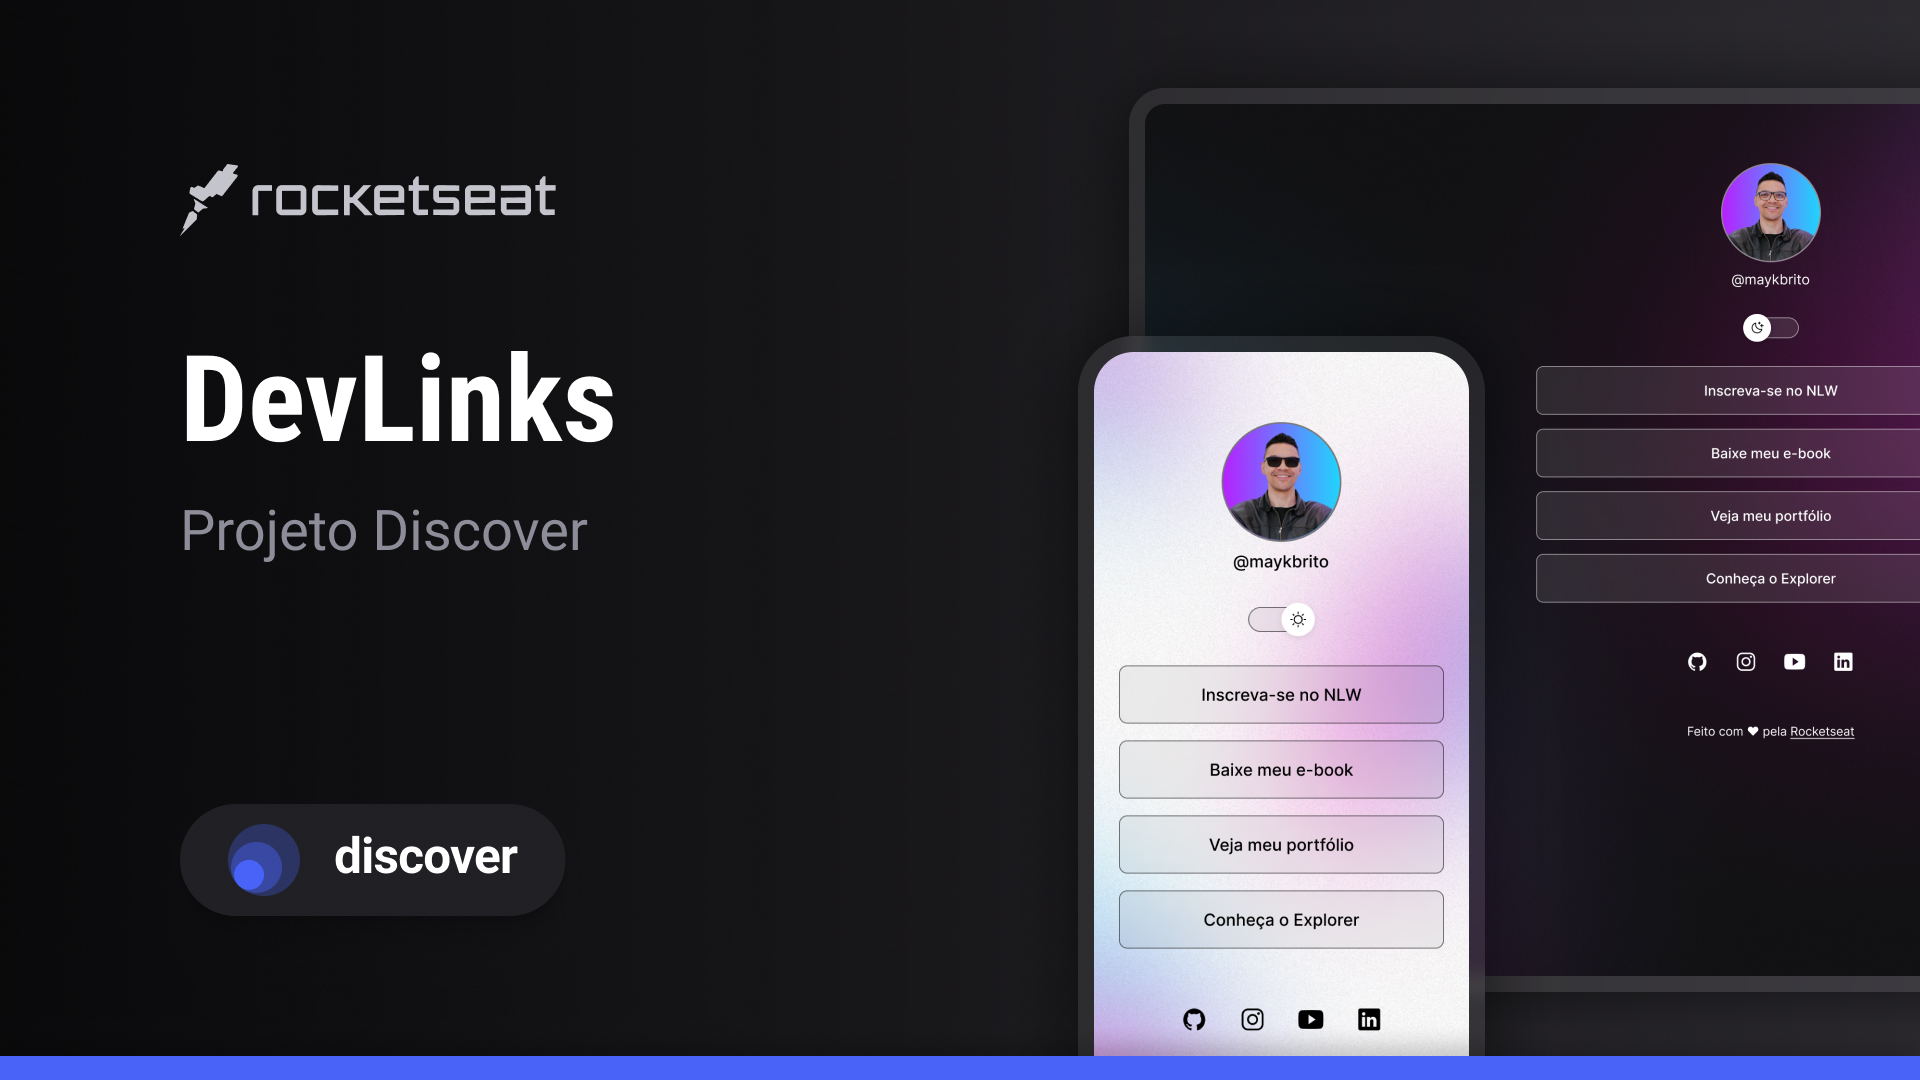
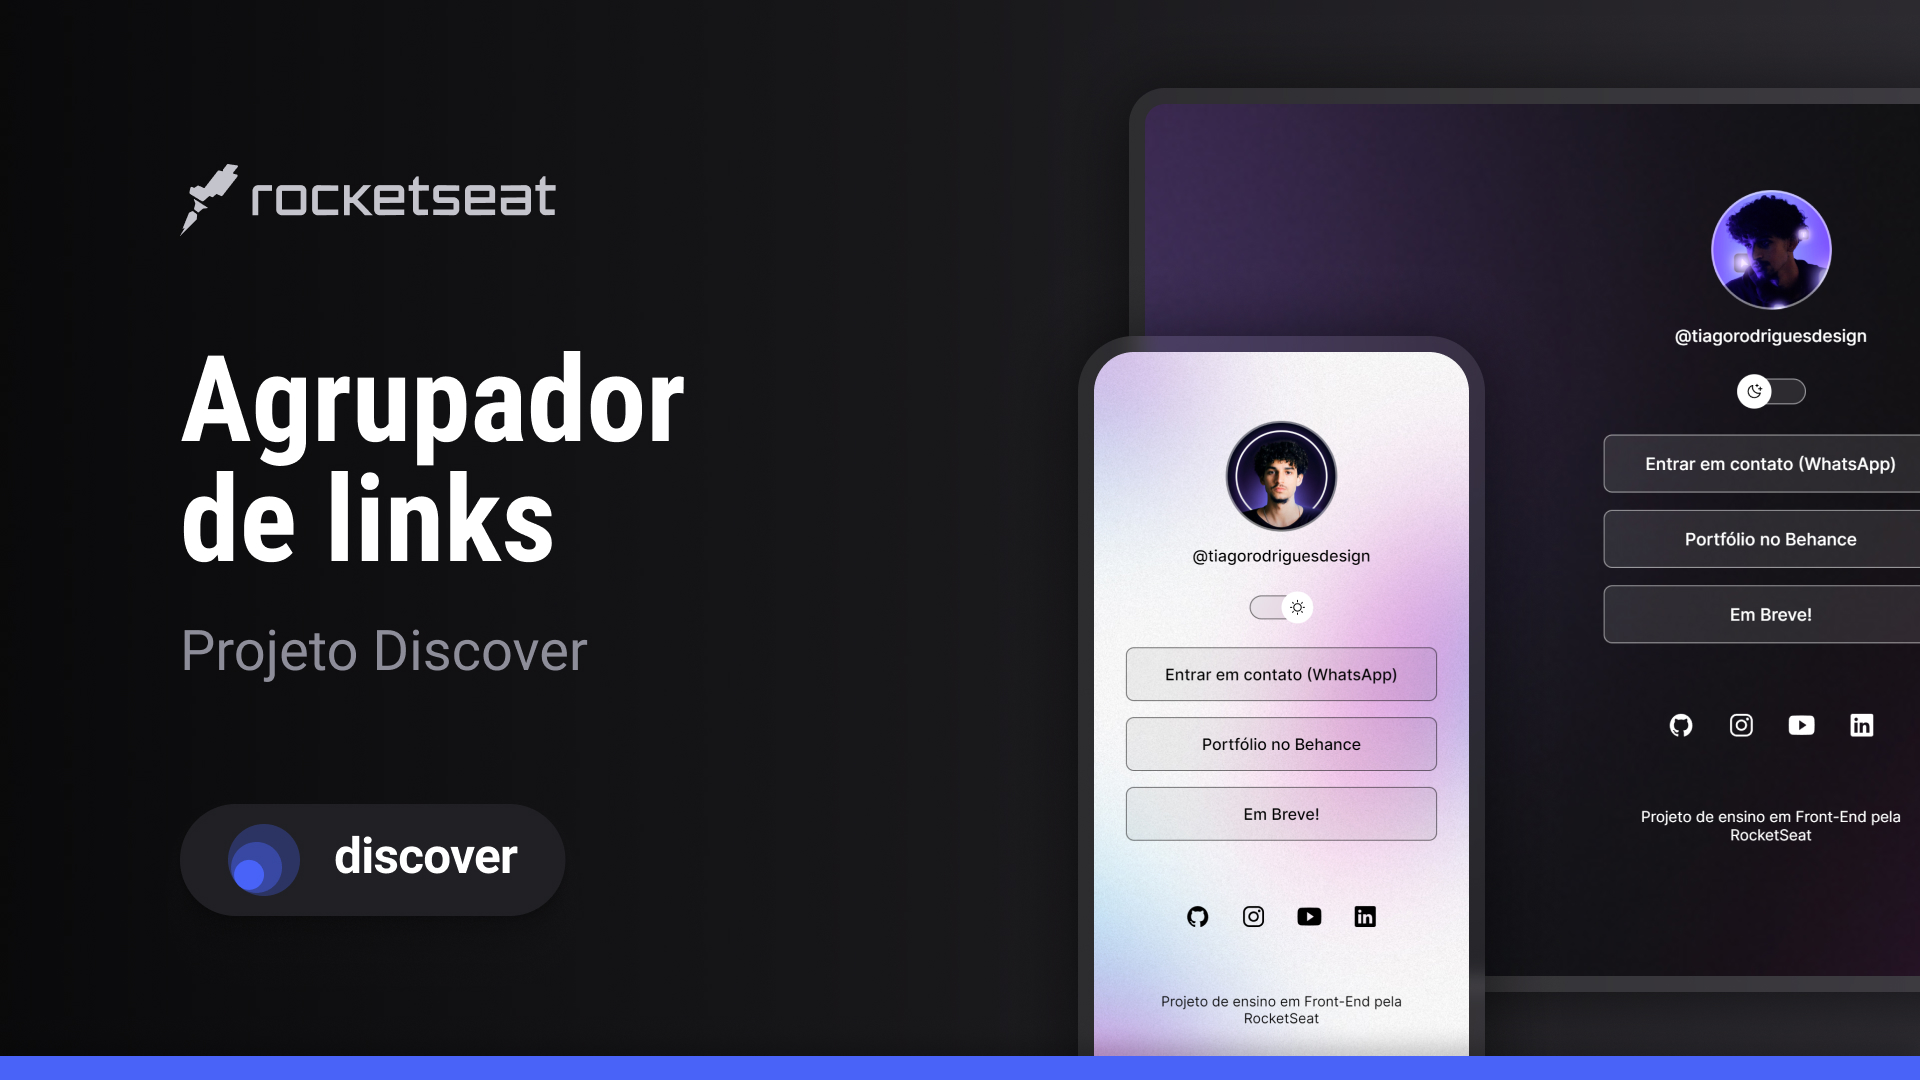
Adjust container width and README update

diff --git a/index.html b/index.html
@@ -22,41 +22,33 @@
     <div id="container">
       <div id="profile">
         <img 
-            src="./assets/avatar.png" 
-            alt="Tiago Rodrigues em um fundo roxo iluminado pela direita por uma luz roxa. Ícones de ferramentas do photoshop flutuando pela imagem"
-          />
-          <p>@tiagorodriguesdesign</p>
+          src="./assets/avatar.png" 
+          alt="Tiago Rodrigues em um fundo roxo iluminado pela direita por uma luz roxa. Ícones de ferramentas do photoshop flutuando pela imagem"
+        />
+        <p>@tiagorodriguesdesign</p>
       </div>
 
       <div id="switch" onclick="toggleMode()">
-        <button>
-
-        </button>
+        <button></button>
         <span></span>
       </div>
         
       <ul>
           <li>
-            <a href="#" target="_blank">
+            <a href="https://wa.me/5522997107894" target="_blank">
               Entrar em contato (WhatsApp)
             </a>
           </li>
 
           <li>
-            <a href="#" target="_blank">
-              Ver meu portfólio
+            <a href="https://www.behance.net/tiagodesignrodrigues" target="_blank">
+              Portfólio no Behance
             </a>
           </li>
 
           <li>
-            <a href="#" target="_blank">
-              Ver meu LinkedIn
-            </a>
-          </li>
-
-          <li>
-            <a href="#" target="_blank">
-              Conheça meu curso!
+            <a>
+              Em Breve!
             </a>
           </li>
       </ul>

diff --git a/style.css b/style.css
@@ -38,7 +38,8 @@ body *{ /* Seletor universal, aplica propriedades a todos elementos do body */
 }
 
 #container{
-    width: 360px;
+    width: 100%;
+    max-width: 588px;
     margin: 56px auto 0px;
     padding: 0 24px;
 

diff --git a/README.md b/README.md
@@ -1,8 +1,7 @@
-<h1 align="center"> DevLinks </h1>
+<h1 align="center"> Agrupador de Links </h1>
 
 <p align="center">
-Programa exclusivo e gratuito, promovido pela Rocketseat para ensino de tecnologias WEB. <br/>
-<a href="https://lp.rocketseat.com.br/devlinks/inscricao?utm_source=github&utm_medium=descricao&utm_campaign=capture-devlinks&utm_term=organic&utm_content=descricao-github-mayk-brito">Estude esse projeto em formato de vídeo clicando aqui.</a>
+Programa exclusivo e gratuito, desenvolvido como prática de estudo em tecnologias WEB. <br/>
 </p>
 
 <p align="center">
@@ -33,15 +32,13 @@ Esse projeto foi desenvolvido com as seguintes tecnologias:
 
 ## 💻 Projeto
 
-O DevLinks é um agregador de links para usar como cartão de visitas online.
+O projeto é um agrupador de links, utilizado como cartão de visitas online, construído como parte do aprendizado em desenvolvimento Front-End fornecido pela plataforma [RocketSeat](https://rocketseat.com.br)
 
 - [Acesse o projeto finalizado, online](https://maykbrito.github.io/devlinks)
 
-- [Assistir aulas](https://lp.rocketseat.com.br/devlinks/inscricao?utm_source=github&utm_medium=descricao&utm_campaign=capture-devlinks&utm_term=organic&utm_content=descricao-github-mayk-brito)
-
 ## 🔖 Layout
 
-Você pode visualizar o layout do projeto através [DESSE LINK](https://www.figma.com/community/file/1187422022288947321). É necessário ter conta no [Figma](https://figma.com) para acessá-lo.
+Você pode visualizar o layout original do projeto através [DESSE LINK](https://www.figma.com/file/UO2UT4Zk3DB8xn9TYNMxMe/DevLinks-%E2%80%A2-Projeto-Discover-(Community)?type=design&node-id=1437%3A191&mode=design&t=4pwpp6468UNTU1RC-1). É necessário ter conta no [Figma](https://figma.com) para acessá-lo.
 
 ## :memo: Licença
 
@@ -49,4 +46,3 @@ Esse projeto está sob a licença MIT.
 
 ---
 
-Feito com ♥ by Rocketseat :wave: [Participe da nossa comunidade!](https://discord.gg/rocketseat)
